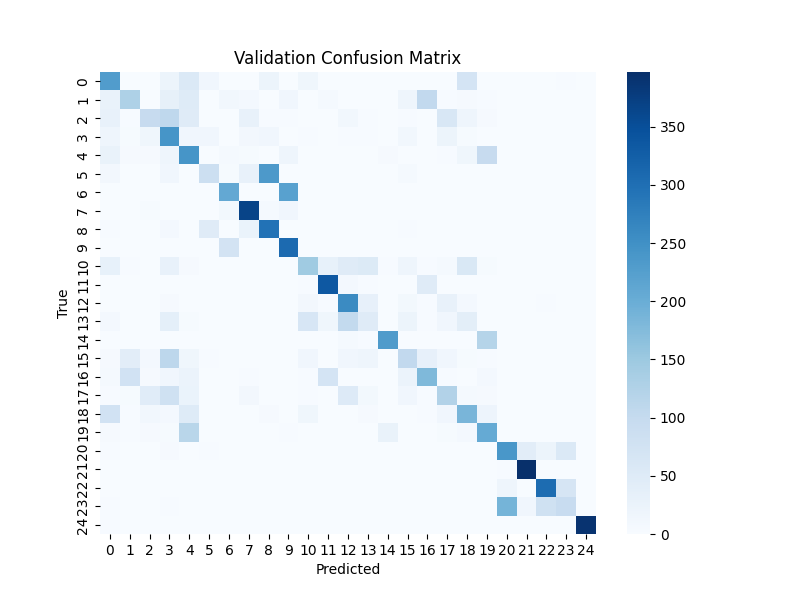
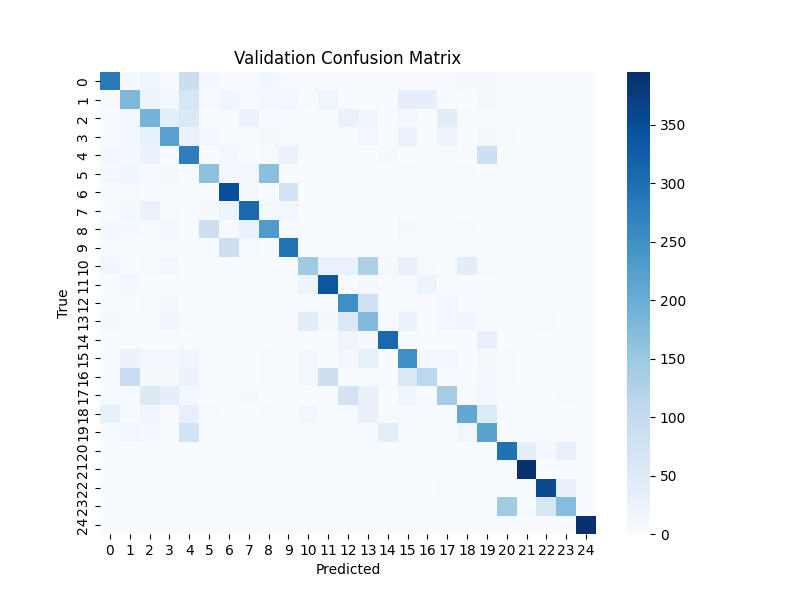
structured pt2

diff --git a/SocialLandmarks_Python/Data/generate_trajectory_images.py b/SocialLandmarks_Python/Data/generate_trajectory_images.py
@@ -47,7 +47,7 @@ def read_csv_files(csv_directory):
     column_names = ['timestep','pos_x', 'pos_z']
 
     row_threshold = 3
-    for filename in tqdm(csv_files[:5]):
+    for filename in tqdm(csv_files):
         # Read the CSV file into a pandas DataFrame and assign column names
         df = pd.read_csv(os.path.join(csv_directory, filename), 
             header=None, names=column_names, 
@@ -195,15 +195,15 @@ def create_centrered_images(key, value, dataset_name, resolution= 32):
 
 def create_structured_images(key, value, dataset_name, resolution= 32):
     # default_int = 0.5
-    plt.clf()
-    plt.plot(value["pos_x"], value["pos_z"], c = 'slategrey')
-    plt.scatter(value["pos_x"][0], value["pos_z"][0], c = 'slategrey')
-    plt.scatter(value["norm_source"][0], value["norm_source"][0], c = 'firebrick', marker = '*', s = 200)
+    # plt.clf()
+    # plt.plot(value["pos_x"], value["pos_z"], c = 'slategrey')
+    # plt.scatter(value["pos_x"][0], value["pos_z"][0], c = 'slategrey')
+    # plt.scatter(value["norm_source"][0], value["norm_source"][0], c = 'firebrick', marker = '*', s = 200)
     # plt.legend(['Path', 'Spawn', 'Source'])
     # plt.xlabel("Position X")
     # plt.ylabel("Position Z")
     # plt.title("Normalized Path Image")
-    plt.savefig(dataset_name + "\\" + key)
+    # plt.savefig(dataset_name + "\\" + key)
 
     # Extract key points i.e., spawns and goals.
     init_x = value["pos_x"][0]
@@ -238,10 +238,16 @@ def create_structured_images(key, value, dataset_name, resolution= 32):
     
     x = points[:,0]
     z = points[:,1]
-    pixel_pos_x = x * ((resolution - 1)/2) + (resolution/2)
-    pixel_pos_z = z * ((resolution - 1)/2) + (resolution/2)
-    source_posX =  source_pos_x * ((resolution - 1)/2) + (resolution/2)
-    source_posZ =  source_pos_z * ((resolution - 1)/2) + (resolution/2)
+    max_value_x = max(np.max(abs(x)), abs(source_pos_x))
+    max_value_z = max(np.max(abs(z)), abs(source_pos_z))
+    max_value =  max(max_value_x, max_value_z) + 0.1
+    max_value = min(max_value, 1)
+    
+    pixel_pos_x = x * ((resolution - 1)/(2*max_value)) + ((resolution-1)/2)
+    pixel_pos_z = z * ((resolution - 1)/(2*max_value)) + ((resolution-1)/2)
+    source_posX =  source_pos_x * ((resolution - 1)/(2*max_value)) + ((resolution-1)/2)
+    source_posZ =  source_pos_z * ((resolution - 1)/(2*max_value)) + ((resolution-1)/2)
+
     image = np.zeros((resolution,resolution), np.float32)
     same_speed_count = 0
     for i in range(len(pixel_pos_x)):
